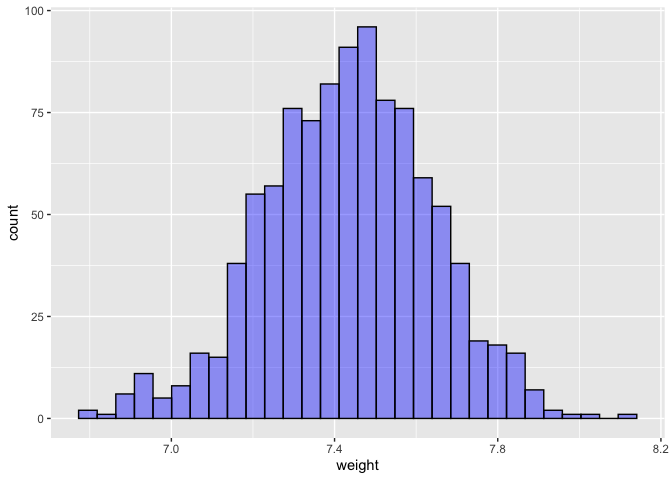
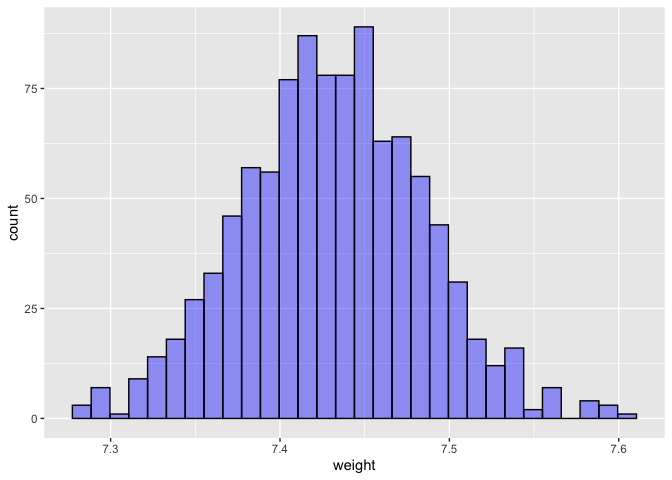
Edited exercise 3 & 4

diff --git a/lab-11.md b/lab-11.md
@@ -92,15 +92,14 @@ population. We can also resample from this multiple times and do a
 bootstap (a simulation) to make this inference.
 
 ``` r
-avg<-c(NA)
-for (i in 1:1000){
-x <- sample(ncbirths_white$weight, size = 50, replace = TRUE)
-avg[i]<-mean(x)
-}
-df_weight <- data.frame(avg = avg)
-df_weight <- df_weight %>% mutate(avg =(avg + (7.43-mean(ncbirths_white$weight))))
+boot_df_weight <- ncbirths_white %>%
+  specify(response = weight) %>% 
+  generate(reps = 1000, type = "bootstrap") %>% 
+  calculate(stat = "mean")
 
-df_weight %>% ggplot(aes(x = avg)) +
+boot_df_weight <- boot_df_weight %>% mutate(stat = (stat + (7.43-mean(ncbirths_white$weight))))
+
+boot_df_weight %>% ggplot(aes(x = stat)) +
   geom_histogram(color = "black",fill = "blue", alpha = 0.4) +
   xlab("weight")
 ```
@@ -110,22 +109,20 @@ df_weight %>% ggplot(aes(x = avg)) +
 ![](lab-11_files/figure-gfm/bootstrap-1.png)<!-- -->
 
 ``` r
-sum((df_weight$avg <= (mean(ncbirths_white$weight))) / length(df_weight$avg)) +
-sum((df_weight$avg >= (7.43+(7.43-mean(ncbirths_white$weight)))) / length(df_weight$avg))
+sum((boot_df_weight$stat <= (mean(ncbirths_white$weight))) / length(boot_df_weight$stat)) +
+sum((boot_df_weight$stat >= (7.43+(7.43-mean(ncbirths_white$weight)))) / length(boot_df_weight$stat))
 ```
 
-    ## [1] 0.37
+    ## [1] 0
 
 ### Exercise 4
 
-For a two-tailed test we would get a p-value of 0.37. This is given by
-that the probability of getting a difference between the null and
-observed value in the negative direction is .183 and the probability of
-getting a difference between the null and observed value in the positive
-direction is .187.
+For a two-tailed test we would get a p-value of 0. In other words, there
+are 0 instances of having a sample mean that is at least as extreme as
+the observed sample mean.
 
-This p-value indicates that there has not been a significant change in
-the average birth weight of Caucasian babies since 1995.
+This p-value indicates that there has been a significant change in the
+average birth weight of Caucasian babies since 1995.
 
 ### Exercise 5
 
@@ -166,3 +163,38 @@ Yes. We do not know the true population difference in birth weight of
 babies’ mothers who smoked and didn’t smoke. We do have a sample
 however, and can make an *inference* as to whether a difference exists
 in the population.
+
+### Exercise 9
+
+``` r
+#smoker
+boot_df_smoker <- ncbirths_habitgiven %>% 
+  filter(habit == "smoker") %>%
+  specify(response = weight) %>% 
+  generate(reps = 1000, type = "bootstrap") %>% 
+  calculate(stat = "mean")
+
+#nonsmoker
+boot_df_nonsmoker <- ncbirths_habitgiven %>% 
+  filter(habit == "nonsmoker") %>%
+  specify(response = weight) %>% 
+  generate(reps = 1000, type = "bootstrap") %>% 
+  calculate(stat = "mean")
+
+boot_df_diff <- (boot_df_nonsmoker$stat-boot_df_smoker$stat) %>% 
+  as.data.frame() %>% 
+  setNames("MeanDiff")
+
+boot_df_diff_c <- (boot_df_diff$MeanDiff - mean(boot_df_diff$MeanDiff)) %>% 
+  as.data.frame() %>% 
+  setNames("MeanDiff")
+
+sum((boot_df_diff_c$MeanDiff >= mean(boot_df_diff$MeanDiff))/length(boot_df_diff_c$MeanDiff)) +
+sum((boot_df_diff_c$MeanDiff <= (mean(boot_df_diff$MeanDiff)*-1))/length(boot_df_diff_c$MeanDiff))
+```
+
+    ## [1] 0.019
+
+The p-value is 0.021. There is evidence to show that there is a
+difference in birth weight of babies whose mothers smokes versus don’t
+smoke.
